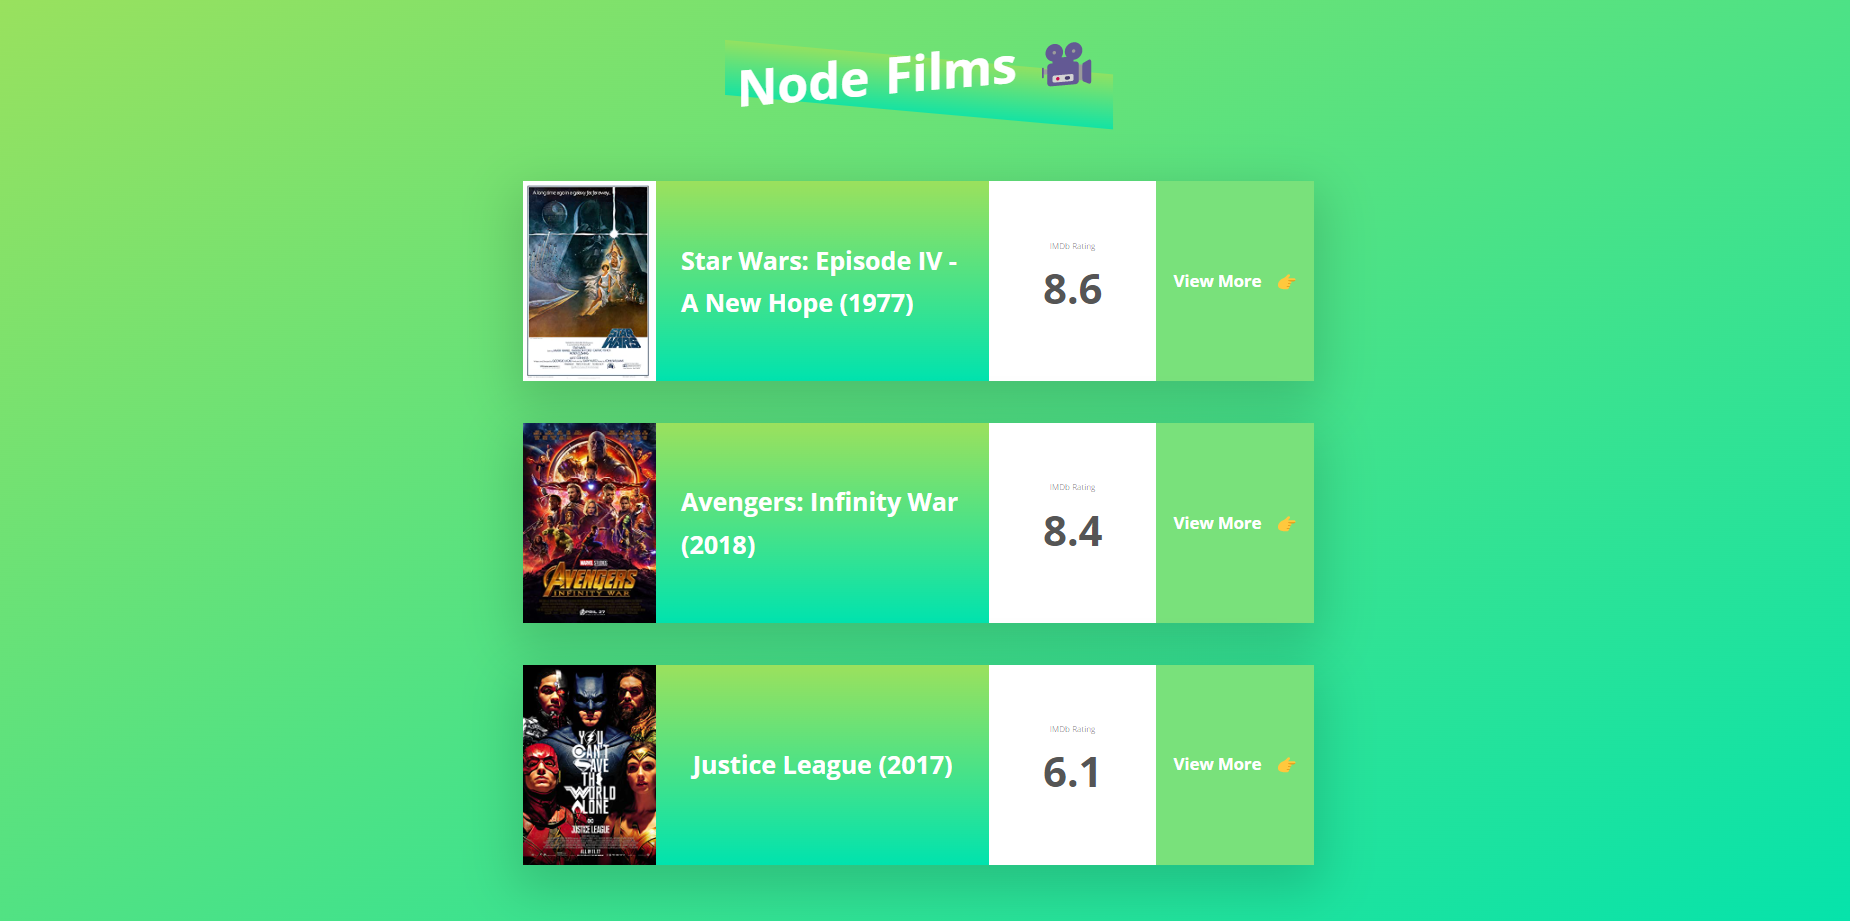
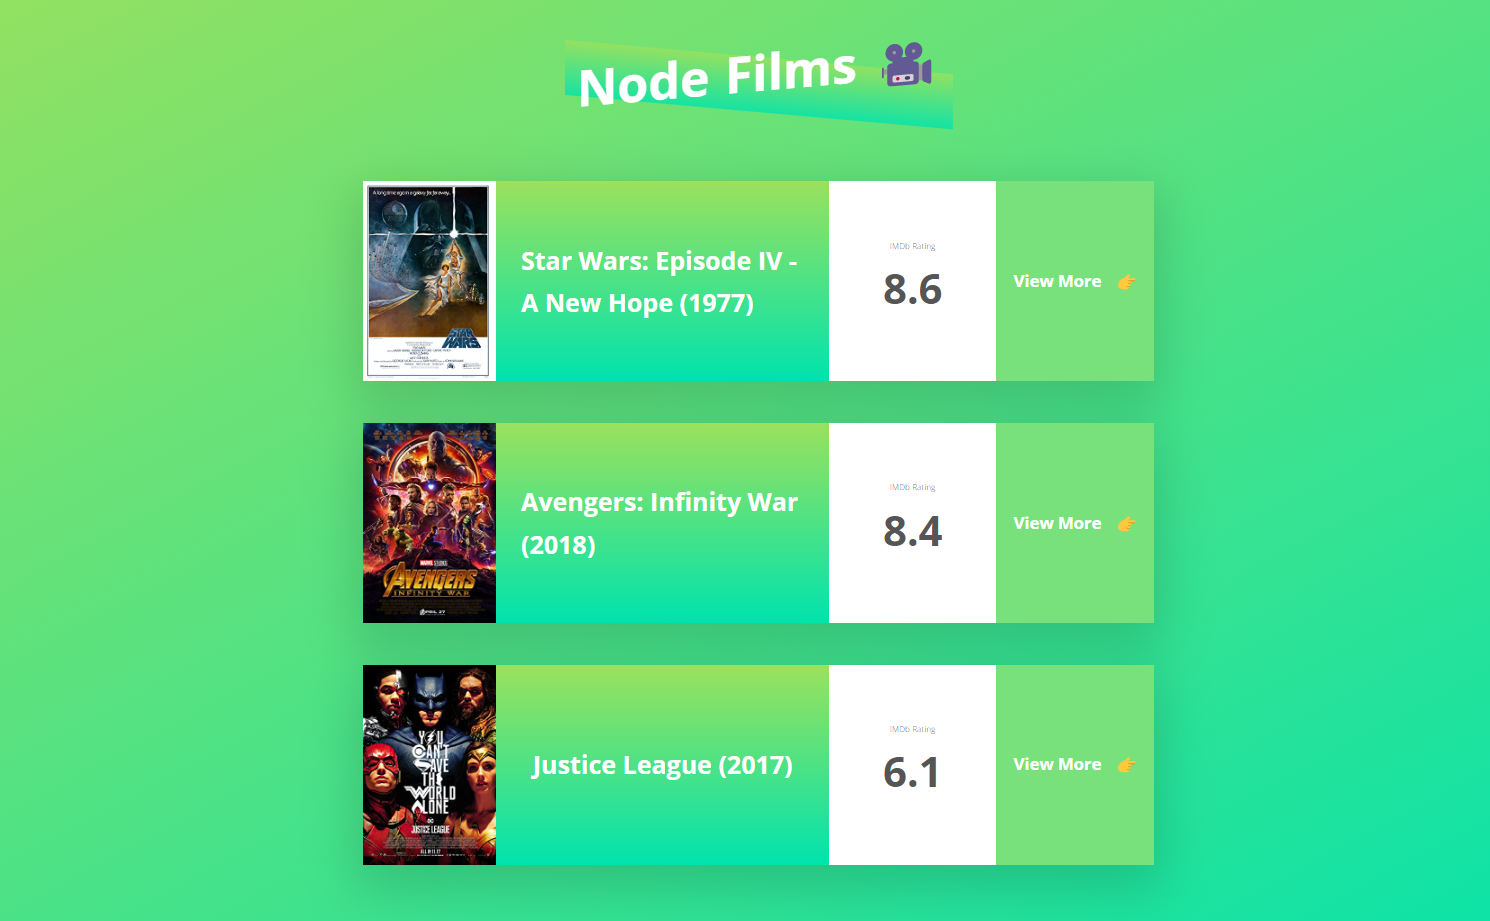
Fix project page responsiveness

Changed region(s): [[0.2161, 0.456, 0.7718, 0.9425], [0.2161, 0.1824, 0.7718, 0.4256], [0.3705, 0.0304, 0.6483, 0.152]]

diff --git a/styles/projects.module.css b/styles/projects.module.css
@@ -1,22 +1,19 @@
 .container {
     display: grid;
-    grid-template-columns: fit-content(600px) fit-content(600px);
-    width: max-content;
-    margin: auto;
-    padding: 1rem;
+    grid-template-columns: 1fr; 
+    margin: 1rem auto 2rem auto;
+    column-gap: 4rem;
+    row-gap: 3rem;
+    padding: 2rem;
     justify-items: center;
-    column-gap: 5rem;
-    margin-top: 2rem;
-}
-
-.image_container {
-    position: relative;
-    width: 500px;
-    height: 281px;
 }
 
 .project_card {
-    margin-bottom: 3rem;
+    width: 100%;
+}
+
+.image_container {
+    width: 100%;
 }
 
 .horizontal_bar h2 {
@@ -41,22 +38,14 @@
     opacity: 50%;
 }
 
-@media only screen and (max-width: 400px) {
-    .image_container {
-        width: 200px;
-        height: 113px;
-    }
-} 
-
-@media only screen and (max-width: 550px) {
-    .image_container {
-        width: 300px;
-        height: 169px;
+@media only screen and (min-width: 450px) {
+    .container {
+        width: 80%;
     }
 }
 
-@media only screen and (max-width: 1200px) {
-	.container {
-        grid-template-columns: 1fr;
-	}
+@media only screen and (min-width: 820px) {
+    .container {
+        grid-template-columns: 1fr 1fr;
+    }
 }

diff --git a/pages/projects.tsx b/pages/projects.tsx
@@ -23,11 +23,10 @@ const Projects = ({ projects }: { projects: Projects }) => {
 						<div className={styles.image_container}>
 							<Image
 								src={project.image}
-								fill
-								quality={100}
 								alt="project image"
-								priority
 								placeholder="blur"
+								priority
+								style={{ width: "100%", height: "30%" }}
 							/>
 						</div>
 						<div className={styles.horizontal_bar}>
